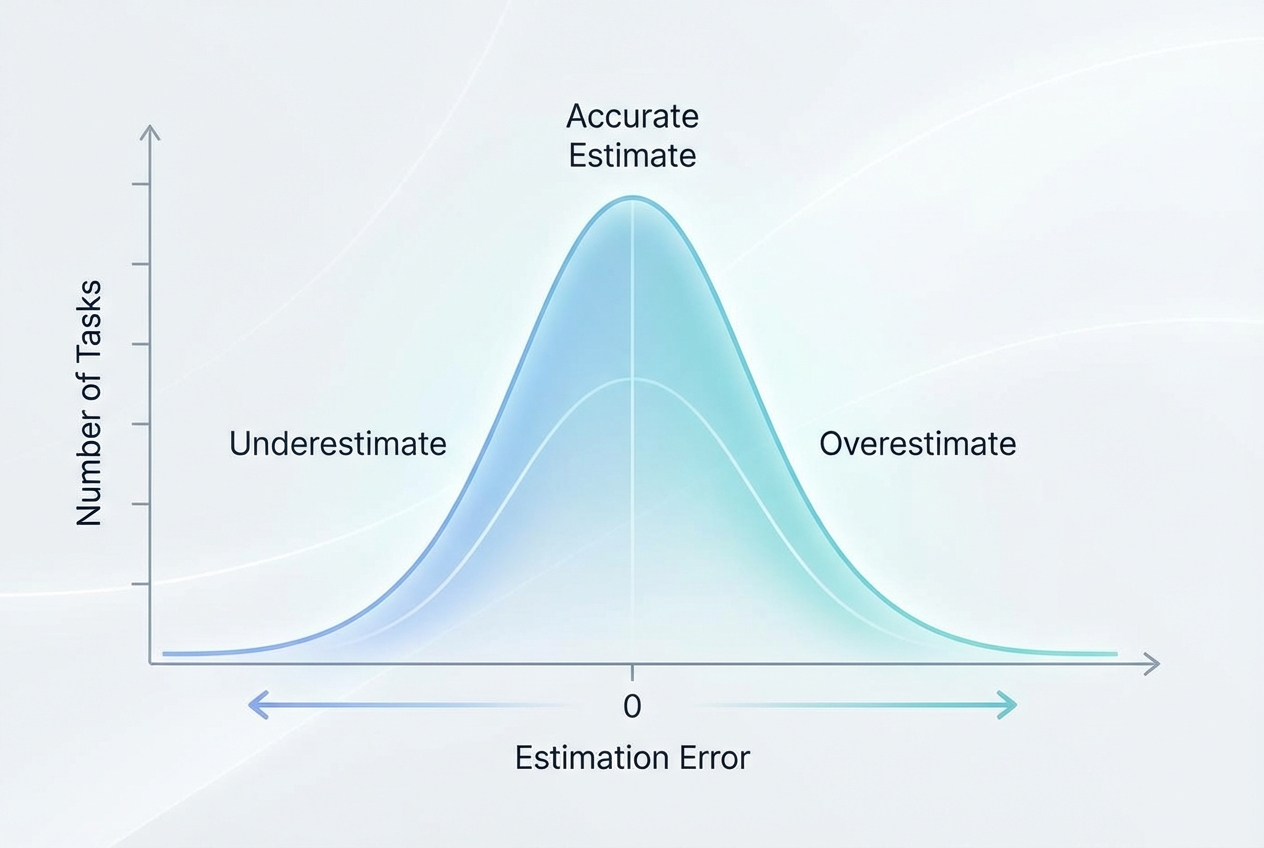
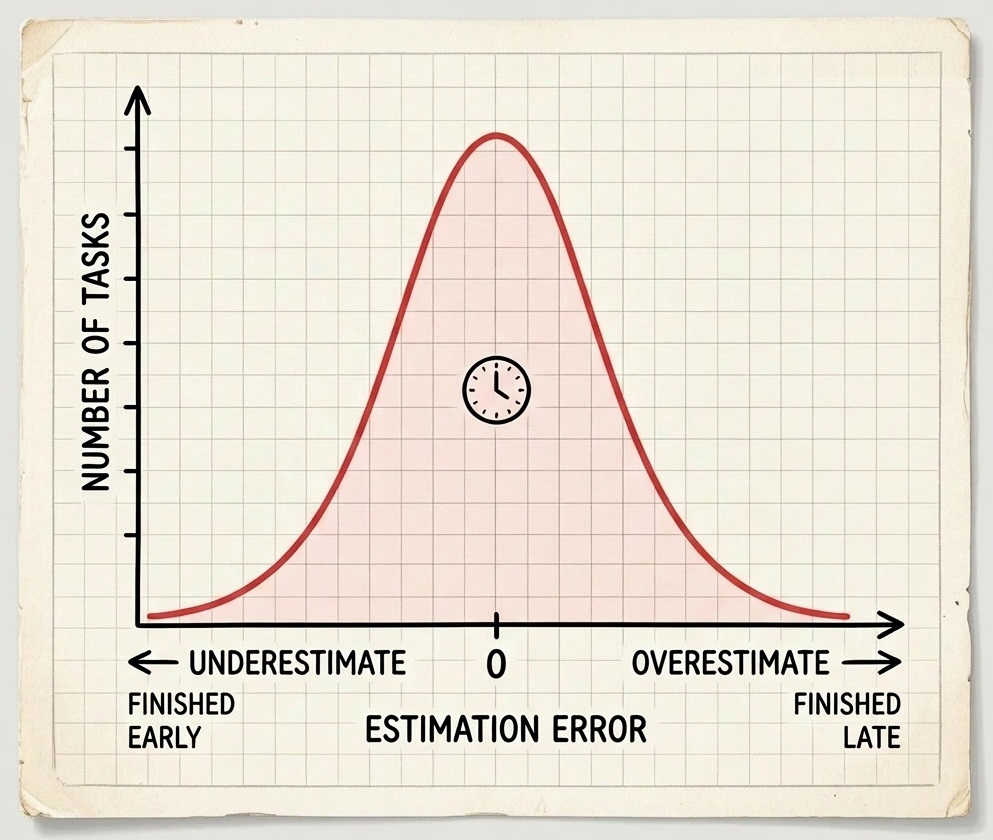
Keep building the new article about short-term planning

diff --git a/short-term-planning/index.html b/short-term-planning/index.html
@@ -215,7 +215,7 @@
                     <figure class="article-figure">
                         <img src="img/gaussian.jpg" alt="PERFECT Code Review Pyramid" class="article-image">
                         <figcaption class="article-caption">
-                            PERFECT Code Review Pyramid
+                            Preferred distribution of estimation error
                         </figcaption>
                     </figure>
 
@@ -738,41 +738,41 @@
         </div>
     </main>
 
-    <div class="discussion-block">
-        <h3 class="discussion-title">Join the Discussion</h3>
-        <p class="discussion-text">Have thoughts on this article? Share your feedback and discuss with the
-            community:</p>
-        <div class="discussion-links">
-            <a href="https://www.reddit.com/r/programming/comments/1q5r0a0/the_perfect_code_review_how_to_reduce_cognitive/"
-               class="discussion-link reddit" target="_blank" rel="noopener">
-                <span class="link-icon">
-                    <img src="https://www.redditstatic.com/shreddit/assets/favicon/64x64.png" alt="Reddit"
-                         class="icon-img"
-                         onerror="this.style.display='none'; this.nextElementSibling.style.display='inline';">
-                    <span class="icon-fallback" style="display: none;">💬</span>
-                </span>
-                <span class="link-text">Discuss on Reddit</span>
-            </a>
-            <a href="https://news.ycombinator.com/item?id=46501905" class="discussion-link hackernews" target="_blank"
-               rel="noopener">
-                <span class="link-icon">
-                    <img src="https://news.ycombinator.com/y18.svg" alt="Hacker News" class="icon-img"
-                         onerror="this.style.display='none'; this.nextElementSibling.style.display='inline';">
-                     <span class="icon-fallback" style="display: none;">🗨️</span>
-                </span>
-                <span class="link-text">Discuss on Hacker News</span>
-            </a>
-            <a href="https://lobste.rs/s/36qjm9/perfect_code_review_how_reduce_cognitive"
-               class="discussion-link lobsters" target="_blank" rel="noopener">
-                <span class="link-icon">
-                    <img src="https://lobste.rs/favicon.ico" alt="Lobsters" class="icon-img"
-                         onerror="this.style.display='none'; this.nextElementSibling.style.display='inline';">
-                    <span class="icon-fallback" style="display: none;">🦞</span>
-                </span>
-                <span class="link-text">Discuss on Lobsters</span>
-            </a>
-        </div>
-    </div>
+<!--    <div class="discussion-block">-->
+<!--        <h3 class="discussion-title">Join the Discussion</h3>-->
+<!--        <p class="discussion-text">Have thoughts on this article? Share your feedback and discuss with the-->
+<!--            community:</p>-->
+<!--        <div class="discussion-links">-->
+<!--            <a href="https://www.reddit.com/r/programming/comments/1q5r0a0/the_perfect_code_review_how_to_reduce_cognitive/"-->
+<!--               class="discussion-link reddit" target="_blank" rel="noopener">-->
+<!--                <span class="link-icon">-->
+<!--                    <img src="https://www.redditstatic.com/shreddit/assets/favicon/64x64.png" alt="Reddit"-->
+<!--                         class="icon-img"-->
+<!--                         onerror="this.style.display='none'; this.nextElementSibling.style.display='inline';">-->
+<!--                    <span class="icon-fallback" style="display: none;">💬</span>-->
+<!--                </span>-->
+<!--                <span class="link-text">Discuss on Reddit</span>-->
+<!--            </a>-->
+<!--            <a href="https://news.ycombinator.com/item?id=46501905" class="discussion-link hackernews" target="_blank"-->
+<!--               rel="noopener">-->
+<!--                <span class="link-icon">-->
+<!--                    <img src="https://news.ycombinator.com/y18.svg" alt="Hacker News" class="icon-img"-->
+<!--                         onerror="this.style.display='none'; this.nextElementSibling.style.display='inline';">-->
+<!--                     <span class="icon-fallback" style="display: none;">🗨️</span>-->
+<!--                </span>-->
+<!--                <span class="link-text">Discuss on Hacker News</span>-->
+<!--            </a>-->
+<!--            <a href="https://lobste.rs/s/36qjm9/perfect_code_review_how_reduce_cognitive"-->
+<!--               class="discussion-link lobsters" target="_blank" rel="noopener">-->
+<!--                <span class="link-icon">-->
+<!--                    <img src="https://lobste.rs/favicon.ico" alt="Lobsters" class="icon-img"-->
+<!--                         onerror="this.style.display='none'; this.nextElementSibling.style.display='inline';">-->
+<!--                    <span class="icon-fallback" style="display: none;">🦞</span>-->
+<!--                </span>-->
+<!--                <span class="link-text">Discuss on Lobsters</span>-->
+<!--            </a>-->
+<!--        </div>-->
+<!--    </div>-->
 </div>
 
 <!-- Image Modal -->